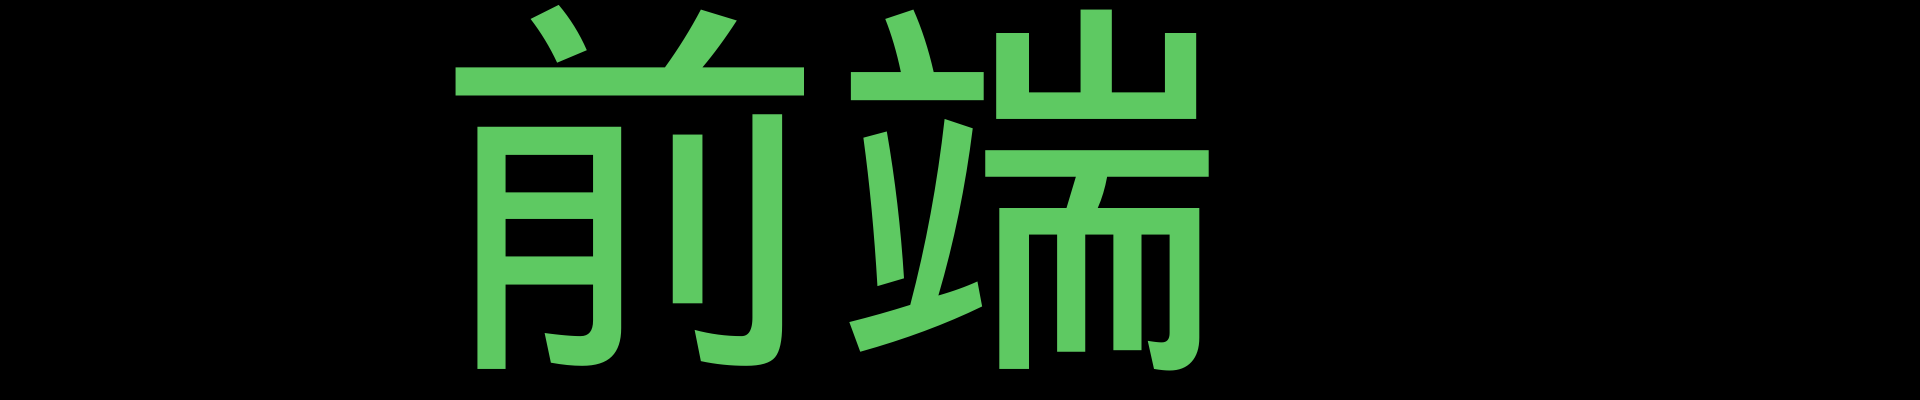
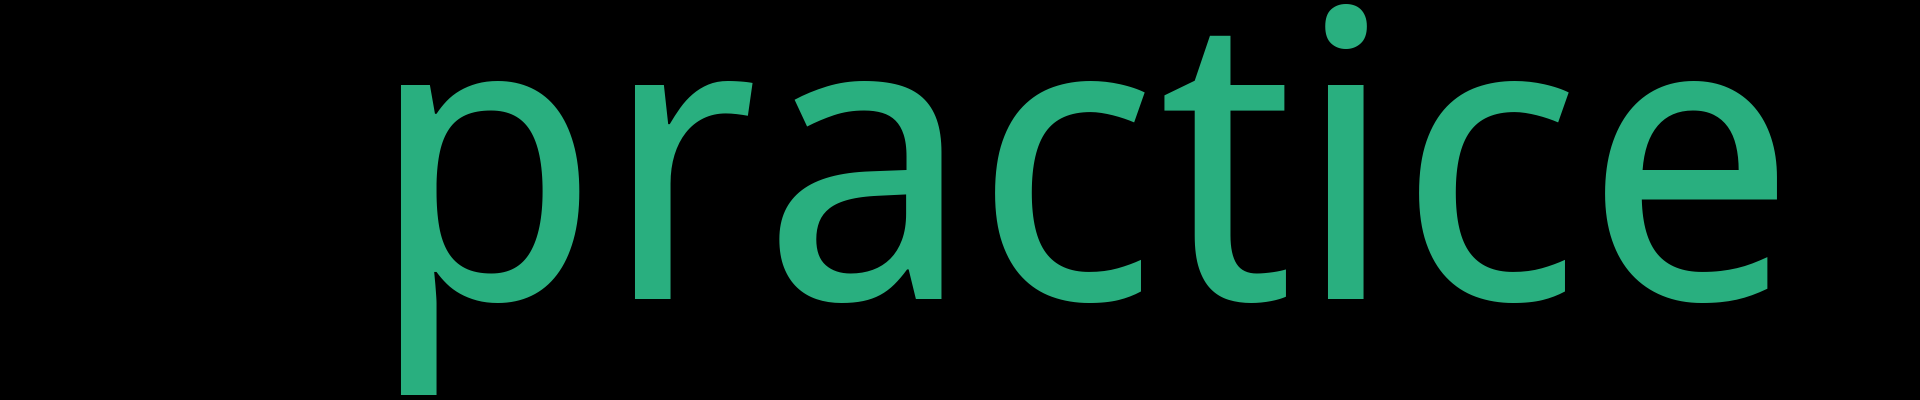
Update from Github Action

Changed region(s): [[0.1875, 0.0, 0.8125, 0.99], [0.8125, 0.18, 0.9375, 0.78], [0.6875, 0.0, 0.7188, 0.12]]

diff --git a/README.md b/README.md
@@ -1,20 +1,24 @@
+
 # Blog
 
 <p align='center'>
     <img src="https://badgen.net/github/issues/lei4519/Blog"/>
-    <img src="https://badgen.net/badge/last-commit/2024-03-25 14:19:12"/>
+    <img src="https://badgen.net/badge/last-commit/2024-03-25 06:38:22"/>
 </p>
     
 <summary>
     <img src="assets/wordcloud.png" title="词云" alt="词云">
 </summary>
 
-## 前端
+## practice
 
 <details open>
-<summary>[2篇]</summary>
+<summary>[3篇]</summary>
 
-- 2024-03-24 [使用 Umi 开发 Chrome 扩展](https://github.com/lei4519/Blog/issues/37)
-- 2024-03-24 [使用 Electron + Vue3 + TS 实现定时提醒休息软件](https://github.com/lei4519/Blog/issues/36)
+- 2024-03-25 [Vuepress 博客搭建](https://github.com/lei4519/Blog/issues/38) 
+- 2024-03-24 [使用 Umi 开发 Chrome 扩展](https://github.com/lei4519/Blog/issues/37) 
+- 2024-03-24 [使用 Electron + Vue3 + TS 实现定时提醒休息软件](https://github.com/lei4519/Blog/issues/36) 
+
 
 </details>
+            
